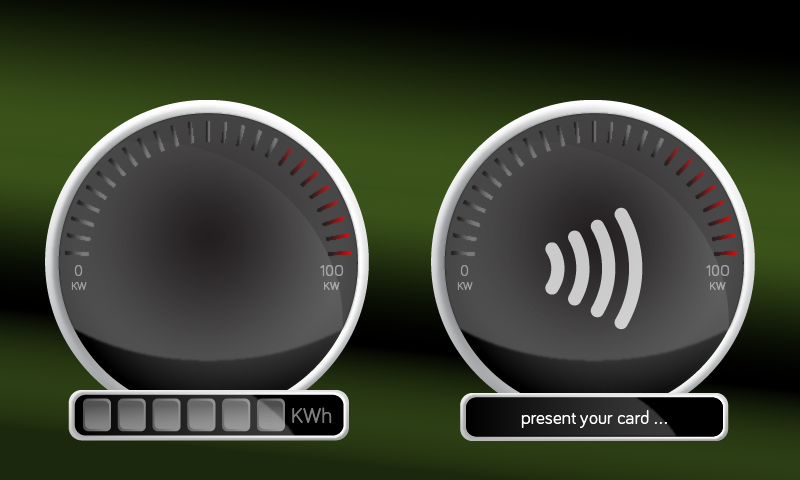
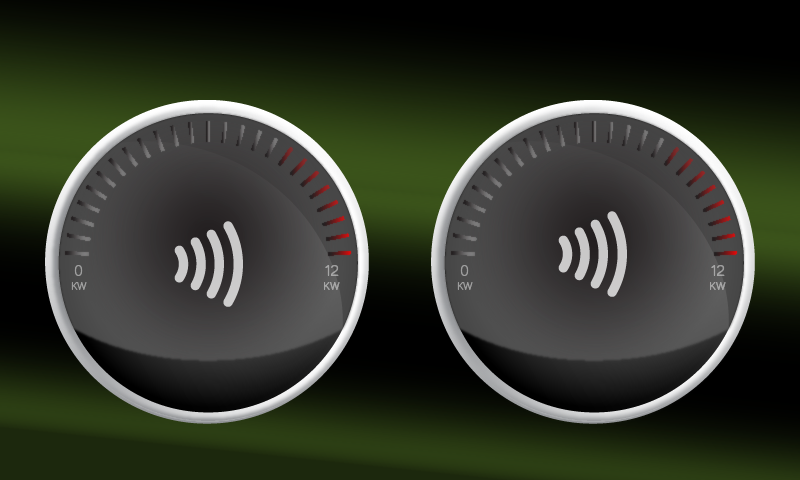
Second gauge added

diff --git a/V1/Mainwindow.py b/V1/Mainwindow.py
@@ -50,10 +50,10 @@ class MainWindow():
         self.mainwindow_canvas.create_image(400,240,image=self.tk_background_image)
 
         self.canvas_image_pointer_left = self.mainwindow_canvas.create_image(210,260,image=self.tk_pointer_image)
-        #self.canvas_image_pointer_right = self.mainwindow_canvas.create_image(597,260,image=self.tk_pointer_image)
+        self.canvas_image_pointer_right = self.mainwindow_canvas.create_image(597,260,image=self.tk_pointer_image)
 
         self.mainwindow_canvas.create_image(210,270,image=self.tk_foreground_image)
-        #self.mainwindow_canvas.create_image(597,270,image=self.tk_foreground_image)
+        self.mainwindow_canvas.create_image(597,270,image=self.tk_foreground_image)
 
         self.canvas_image_red_light = self.mainwindow_canvas.create_image(269,313,image=self.tk_red_light_image)
         self.mainwindow_canvas.itemconfig(self.canvas_image_red_light, state="hidden")
@@ -71,8 +71,14 @@ class MainWindow():
         #172 degrees pointer (+86 to -86) 
         self.angle = 86 - ((self.spot1.power/12000) * 172) + random.randint(-1, 1)
         self.temp_rotate_image = self.pointer_image.rotate(self.angle, expand=True)
-        self.rotated_pointer_image= ImageTk.PhotoImage(self.temp_rotate_image)
-        self.mainwindow_canvas.itemconfig(self.canvas_image_pointer_left, image=self.rotated_pointer_image)
+        self.rotated_pointer_image_left= ImageTk.PhotoImage(self.temp_rotate_image)
+        self.mainwindow_canvas.itemconfig(self.canvas_image_pointer_left, image=self.rotated_pointer_image_left)
+ 
+        self.angle = 86 - ((self.spot2.power/12000) * 172) + random.randint(-1, 1)
+        self.temp_rotate_image = self.pointer_image.rotate(self.angle, expand=True)
+        self.rotated_pointer_image_right= ImageTk.PhotoImage(self.temp_rotate_image)
+        self.mainwindow_canvas.itemconfig(self.canvas_image_pointer_right, image=self.rotated_pointer_image_right)
+
         self.mainwindow_canvas.after(500, self.set_pointer)
         
 

diff --git a/V1/Charging_spot.py b/V1/Charging_spot.py
@@ -44,8 +44,6 @@ class charging_spot:
                 self.power = self.I2 * self.V2
             elif (self.I3 > 1):
                 self.power = self.I3 * self.V3
-            else:
-                self.power = 5000
 
         #set time
         if (self.is_active == False) & ((self.I1 > 1) | (self.I2 > 1) | (self.I3 > 1)):
